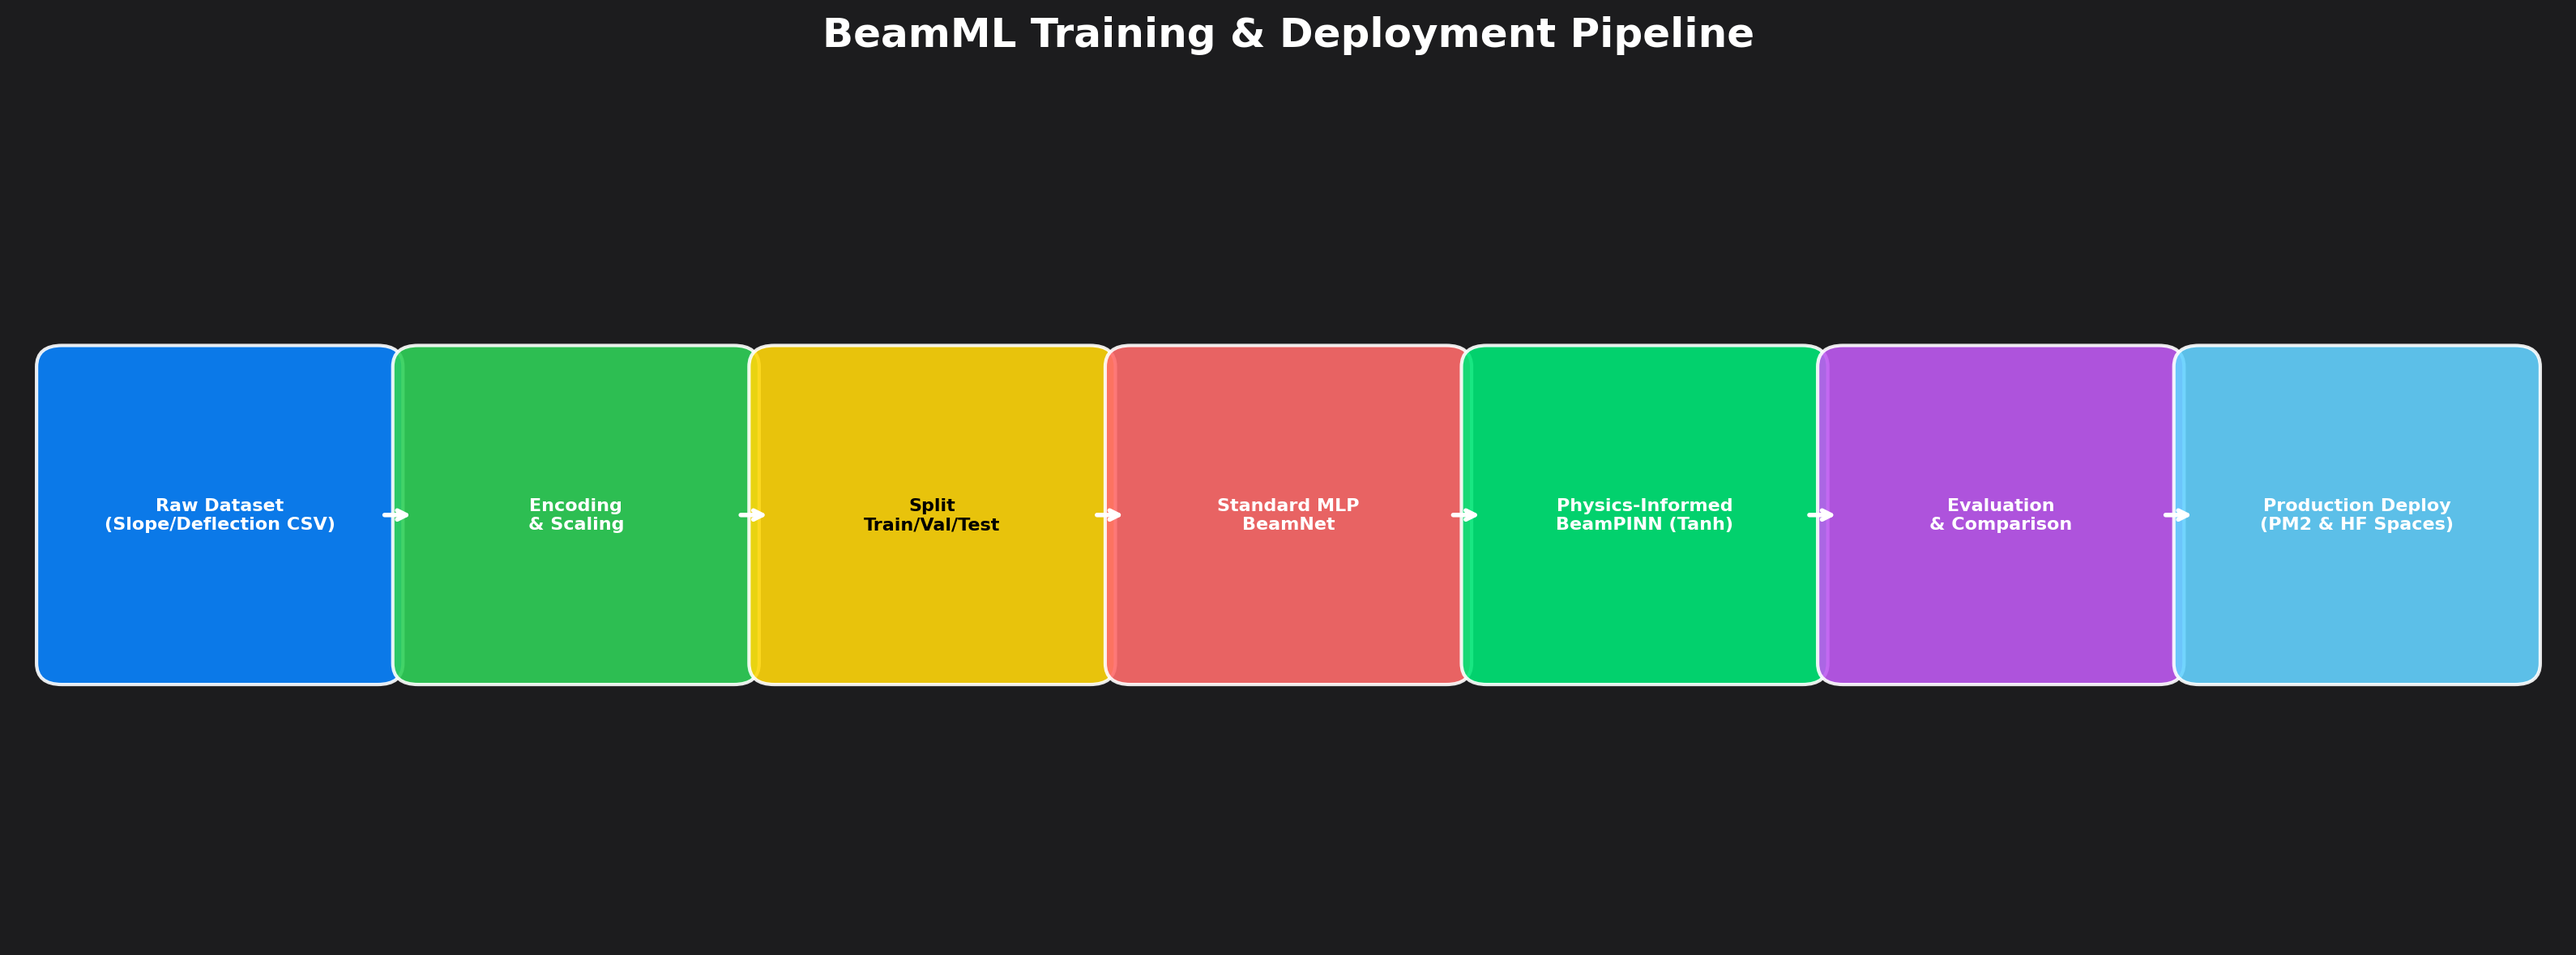
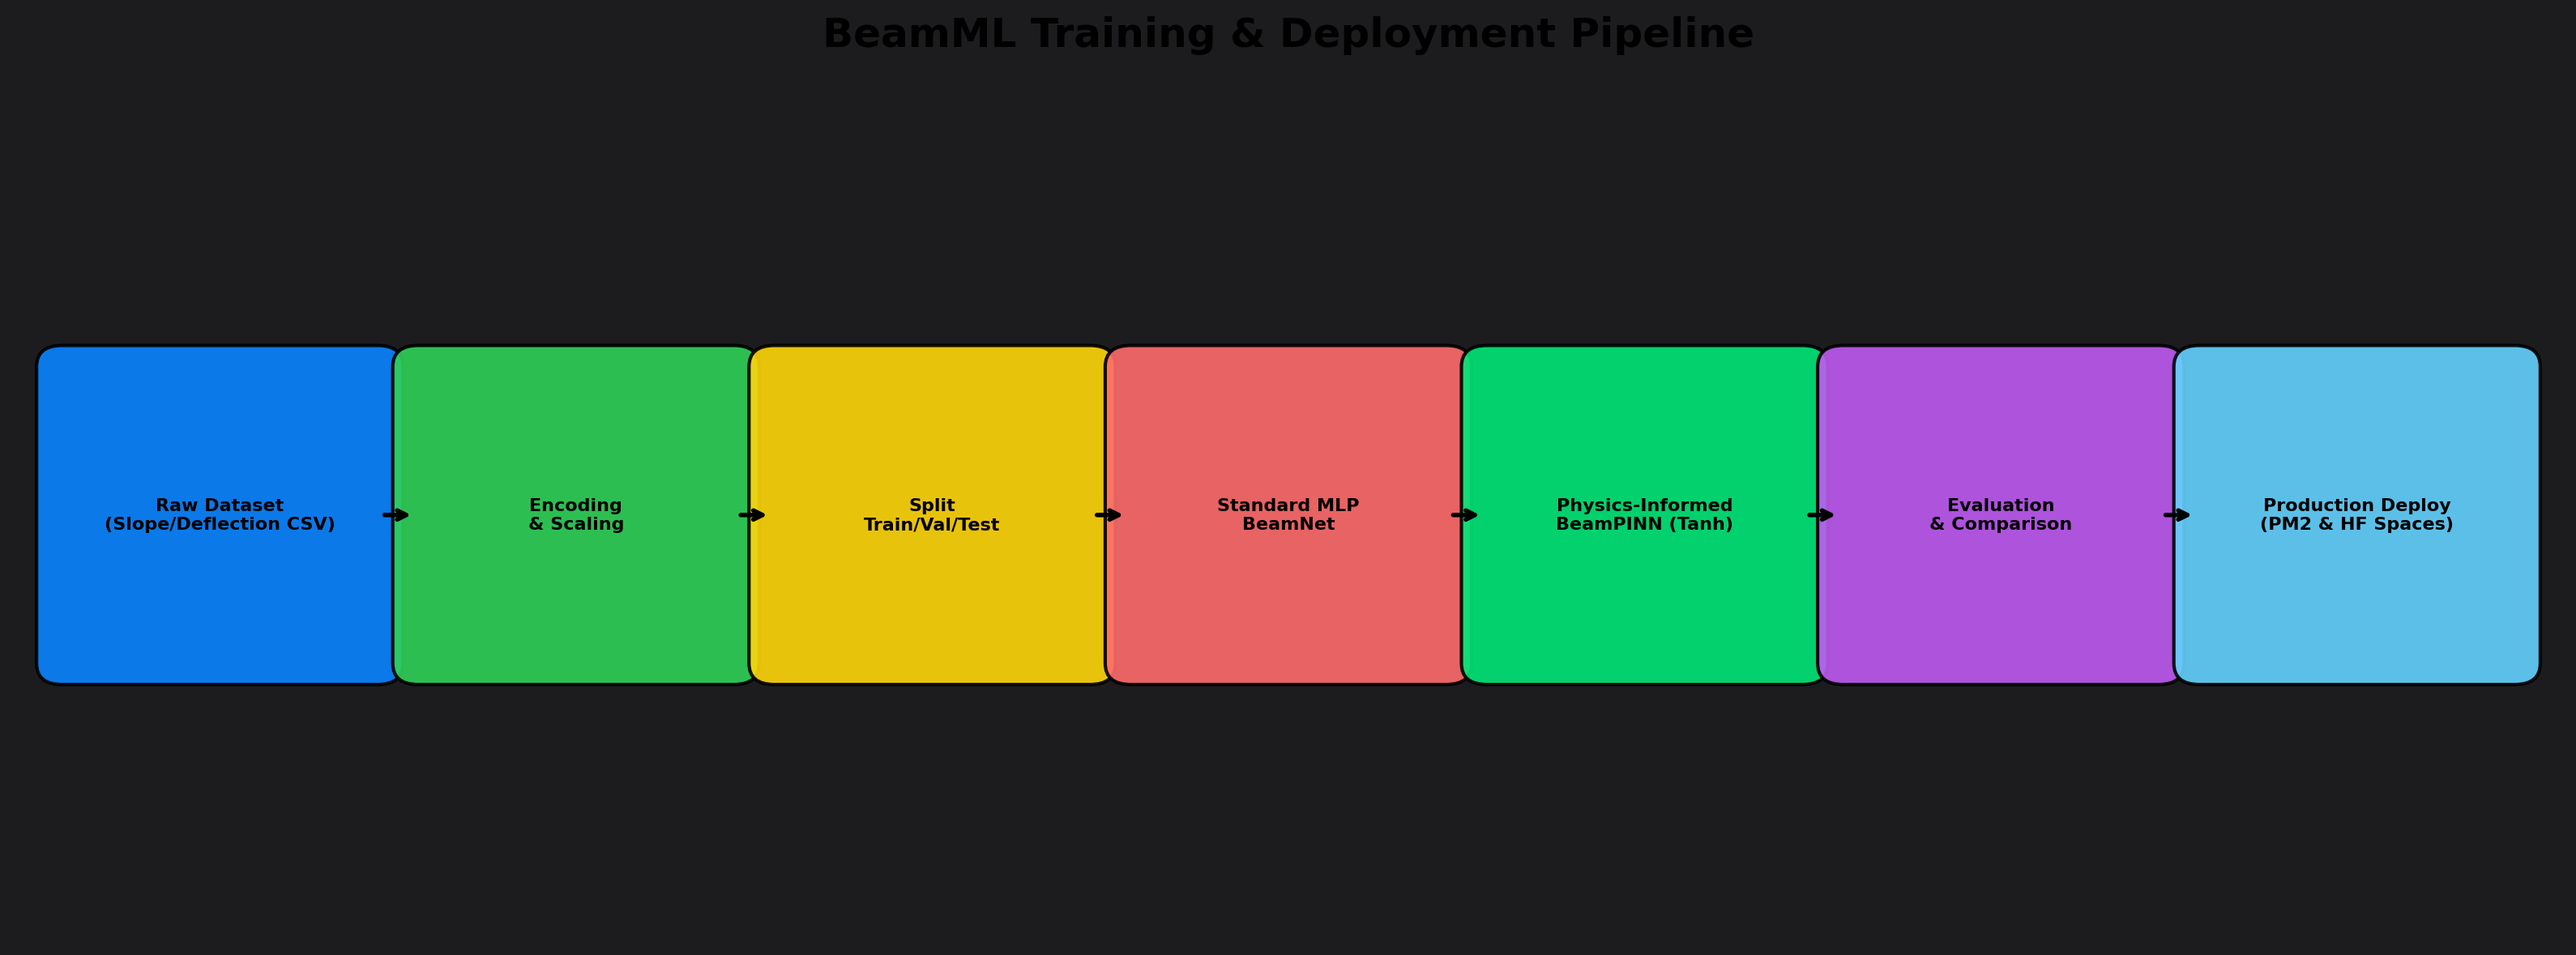
feat: adjust diagrams to use white background and update labels to Sagar Kore only

diff --git a/docs/generate_ml_pipeline.py b/docs/generate_ml_pipeline.py
@@ -2,9 +2,9 @@
 import matplotlib.pyplot as plt
 import matplotlib.patches as mpatches
 
-# For ML pipelines without cloud icons, use pure matplotlib
-fig, ax = plt.subplots(1, 1, figsize=(16, 6), facecolor='#1C1C1E')
-ax.set_facecolor('#1C1C1E')
+# For ML pipelines, use white background
+fig, ax = plt.subplots(1, 1, figsize=(16, 6), facecolor='#FFFFFF')
+ax.set_facecolor('#FFFFFF')
 ax.set_xlim(0, 10)
 ax.set_ylim(0, 4)
 ax.axis('off')
@@ -23,12 +23,12 @@ for i, (label, x, color) in enumerate(steps):
     box = mpatches.FancyBboxPatch(
         (x - 0.62, 1.3), 1.24, 1.4,
         boxstyle="round,pad=0.1",
-        facecolor=color, edgecolor='white', linewidth=1.5, alpha=0.9
+        facecolor=color, edgecolor='black', linewidth=1.5, alpha=0.9
     )
     ax.add_patch(box)
     
-    # Use dark text for bright yellow for contrast
-    text_color = 'black' if color == "#FFD60A" else 'white'
+    # Use dark text for contrast on all boxes
+    text_color = 'black'
     
     ax.text(x, 2.0, label, ha='center', va='center',
             fontsize=8, fontweight='bold', color=text_color,
@@ -36,10 +36,11 @@ for i, (label, x, color) in enumerate(steps):
     if i < len(steps) - 1:
         ax.annotate('', xy=(steps[i+1][1] - 0.63, 2.0),
                     xytext=(x + 0.63, 2.0),
-                    arrowprops=dict(arrowstyle='->', color='white', lw=2))
+                    arrowprops=dict(arrowstyle='->', color='black', lw=2))
 
-ax.set_title('BeamML Training & Deployment Pipeline', color='white', fontsize=18,
+ax.set_title('BeamML Training & Deployment Pipeline', color='black', fontsize=18,
              fontweight='bold', pad=20)
+
 plt.tight_layout()
 plt.savefig('docs/images/ml-pipeline.png', dpi=200,
             bbox_inches='tight', facecolor='#1C1C1E')

diff --git a/docs/generate_architecture.py b/docs/generate_architecture.py
@@ -7,12 +7,17 @@ from diagrams.programming.framework import Flask
 
 graph_attr = {
     "fontsize": "14",
-    "bgcolor": "#1C1C1E",        # dark background matching Apple HIG
-    "fontcolor": "white",
+    "bgcolor": "#FFFFFF",        # light background for high contrast
+    "fontcolor": "black",
     "pad": "0.5",
     "splines": "curved",
     "nodesep": "0.6",
     "ranksep": "0.8",
+}
+
+node_attr = {
+    "fontsize": "12",
+    "fontcolor": "black",
 }
 
 with Diagram(
@@ -22,8 +27,10 @@ with Diagram(
     show=False,
     direction="LR",
     graph_attr=graph_attr,
+    node_attr=node_attr,
 ):
-    user = Users("Civil Engineers\n(Sagar & Aditya)")
+    user = Users("Civil Engineer\n(Sagar Kore)")
+
 
     with Cluster("Web Dashboard"):
         ui = Server("HTML/JS UI\n(Chart.js & SVG)")
@@ -33,9 +40,10 @@ with Diagram(
         pinn = Python("BeamPINN Model\n(Physics-Informed)")
         net = Python("BeamNet Model\n(Standard MLP)")
 
-    user >> Edge(color="white", label="interacts") >> ui
-    ui >> Edge(color="white", label="requests API") >> api
-    api >> Edge(color="#00E676", label="loads weights") >> pinn
-    api >> Edge(color="#FF6B6B", label="loads weights") >> net
+    user >> Edge(color="black", label="interacts") >> ui
+    ui >> Edge(color="black", label="requests API") >> api
+    api >> Edge(color="#006400", label="loads weights") >> pinn
+    api >> Edge(color="#8B0000", label="loads weights") >> net
+
 
 print("✅ docs/images/architecture.png generated")
